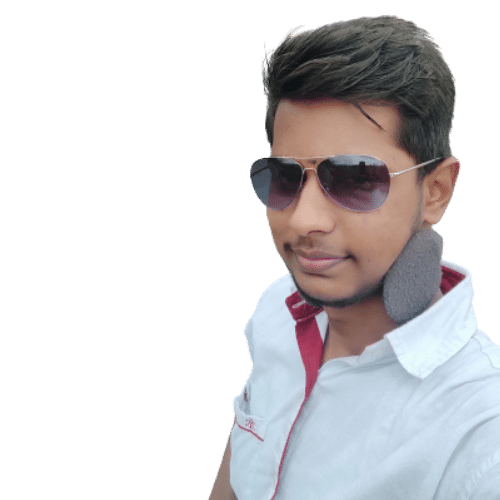
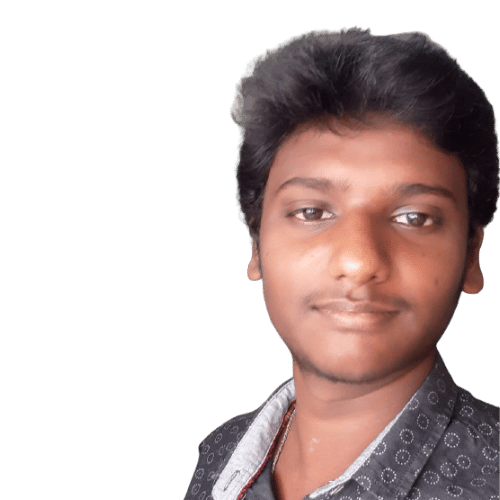
Changed News Head

diff --git a/index.html b/index.html
@@ -219,7 +219,7 @@
           <div class="col-lg-4 col-md-6 portfolio-item filter-common">
             <img src="assets/img/portfolio/news-head.png" class="img-fluid" alt="">
             <div class="portfolio-info">
-              <h4>Sachin Siyam P</h4>
+              <h4>Tamil Arasu S</h4>
               <p>Newsletter Head</p>
               <a href="assets/img/portfolio/news-head.png" data-gallery="portfolioGallery" class="portfolio-lightbox preview-link" title="Web 3"><i class="bx bx-plus"></i></a>
               
